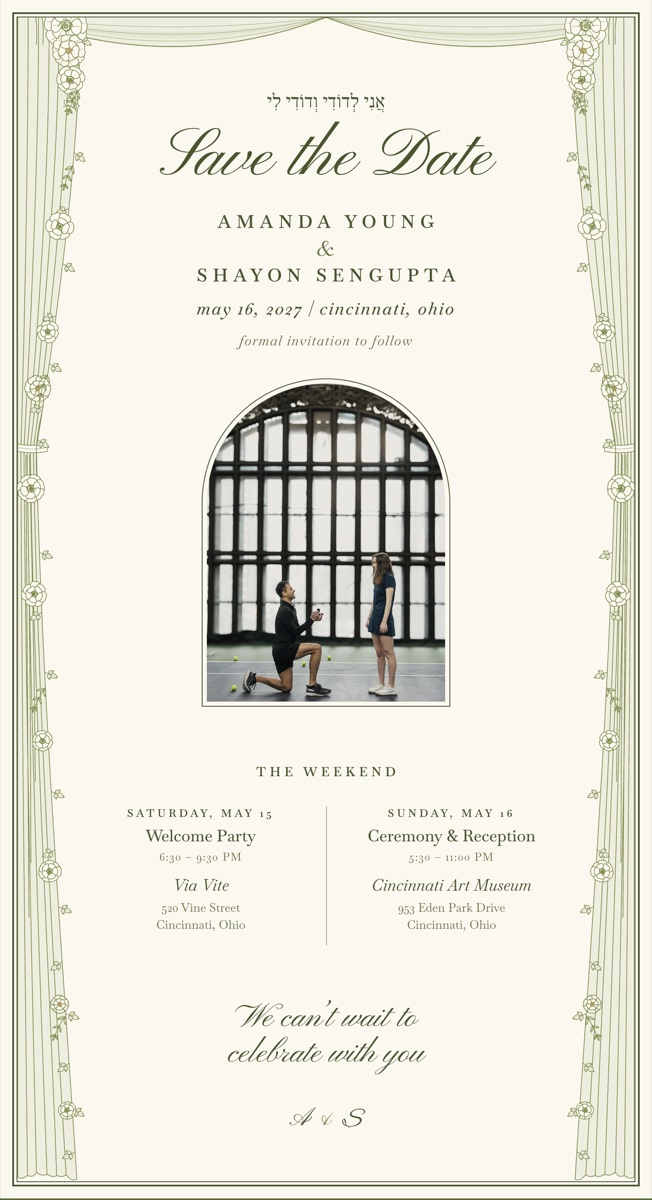
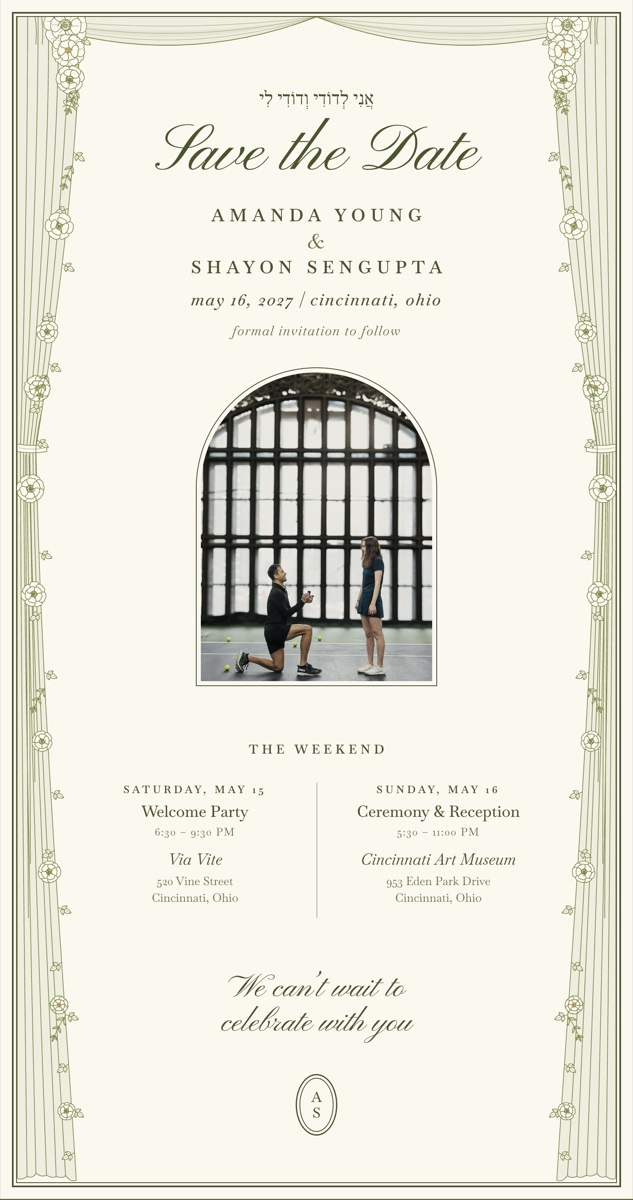
Monogram: museo's double-ruled oval with A over S in serif capitals

diff --git a/index.html b/index.html
@@ -24,8 +24,8 @@
 
 <link rel="preconnect" href="https://fonts.googleapis.com">
 <link rel="preconnect" href="https://fonts.gstatic.com" crossorigin>
-<link href="https://fonts.googleapis.com/css2?family=Baskervville:ital,wght@0,400;0,500;0,600;1,400;1,500&family=Frank+Ruhl+Libre:wght@400;500&family=Alex+Brush&family=Pinyon+Script&display=swap" rel="stylesheet">
-<link rel="stylesheet" href="styles.css?v=49" />
+<link href="https://fonts.googleapis.com/css2?family=Baskervville:ital,wght@0,400;0,500;0,600;1,400;1,500&family=Frank+Ruhl+Libre:wght@400;500&family=Pinyon+Script&display=swap" rel="stylesheet">
+<link rel="stylesheet" href="styles.css?v=50" />
 <script>
   // ?preview=email / ?preview=og switch the page into fixed layouts used to render the share images
   var pv = new URLSearchParams(location.search).get("preview");
@@ -173,7 +173,7 @@
       </section>
 
       <footer class="card-footer">
-        <span class="footer-mark">A <em>&amp;</em> <span class="s">S</span></span>
+        <span class="footer-mark" role="img" aria-label="A &amp; S"><span>A</span><span>S</span></span>
       </footer>
 
     </div>

diff --git a/styles.css b/styles.css
@@ -465,11 +465,27 @@ body{
   flex-direction: column;
   align-items: center;
 }
+/* museo's monogram: initials stacked in serif capitals inside a double-ruled oval */
 .footer-mark{
-  font-family: var(--script);
-  font-size: 30px;
+  position: relative;
+  display: flex;
+  flex-direction: column;
+  align-items: center;
+  justify-content: center;
+  gap: 2px;
+  width: 50px; height: 74px;
+  border: 1.5px solid var(--ink);
+  border-radius: 50%;
+  font-weight: 500;
+  font-size: 17px;
   line-height: 1;
+  letter-spacing: 0;
   color: var(--ink);
 }
-.footer-mark em{ font-style: normal; color: var(--olive); }
-.footer-mark .s{ font-family: "Alex Brush", var(--script); font-size: 1.03em; }   /* Pinyon's capital S reads as an L */
+.footer-mark::after{          /* inner rule */
+  content: "";
+  position: absolute;
+  inset: 3px;
+  border: 1px solid var(--ink);
+  border-radius: 50%;
+}

diff --git a/email.html b/email.html
@@ -22,7 +22,7 @@
         <tr>
           <td align="center" style="padding:0;">
             <a href="https://shayon297.github.io/save-the-date/" style="text-decoration:none;">
-              <img src="https://shayon297.github.io/save-the-date/assets/card-email.jpg?v=16" width="600" alt="Save the Date — Shayon Sengupta and Amanda Young, Sunday, May 16, 2027, Cincinnati Art Museum" style="display:block;width:100%;max-width:600px;height:auto;border:0;box-shadow:0 18px 40px -22px rgba(0,0,0,0.45);" />
+              <img src="https://shayon297.github.io/save-the-date/assets/card-email.jpg?v=17" width="600" alt="Save the Date — Shayon Sengupta and Amanda Young, Sunday, May 16, 2027, Cincinnati Art Museum" style="display:block;width:100%;max-width:600px;height:auto;border:0;box-shadow:0 18px 40px -22px rgba(0,0,0,0.45);" />
             </a>
           </td>
         </tr>

diff --git a/CLAUDE.md b/CLAUDE.md
@@ -90,8 +90,9 @@ and a phone width (375px) before calling a change done.
   open roses spaced to the hem). A shallow scalloped swag runs across the top from
   each drape and the two halves meet at the centre (no knot, tail or centre tie);
   it sits behind the drapes.
-- The A & S monogram is Pinyon Script, except the S, which is Alex Brush (Pinyon's
-  S read as an L). Amanda preferred this over setting the whole monogram in Great Vibes.
+- The monogram is museo's own: A over S in Baskervville capitals inside a double-ruled
+  oval (as on museo's enclosure cards and belly band). Script monograms were tried and
+  rejected (Pinyon's S reads as an L).
 - Names are bride first everywhere (card, titles, monogram A & S, calendar events,
   email, text message), the usual order on wedding stationery.
 - Phones should look like a scaled-down desktop, not a different design, and
